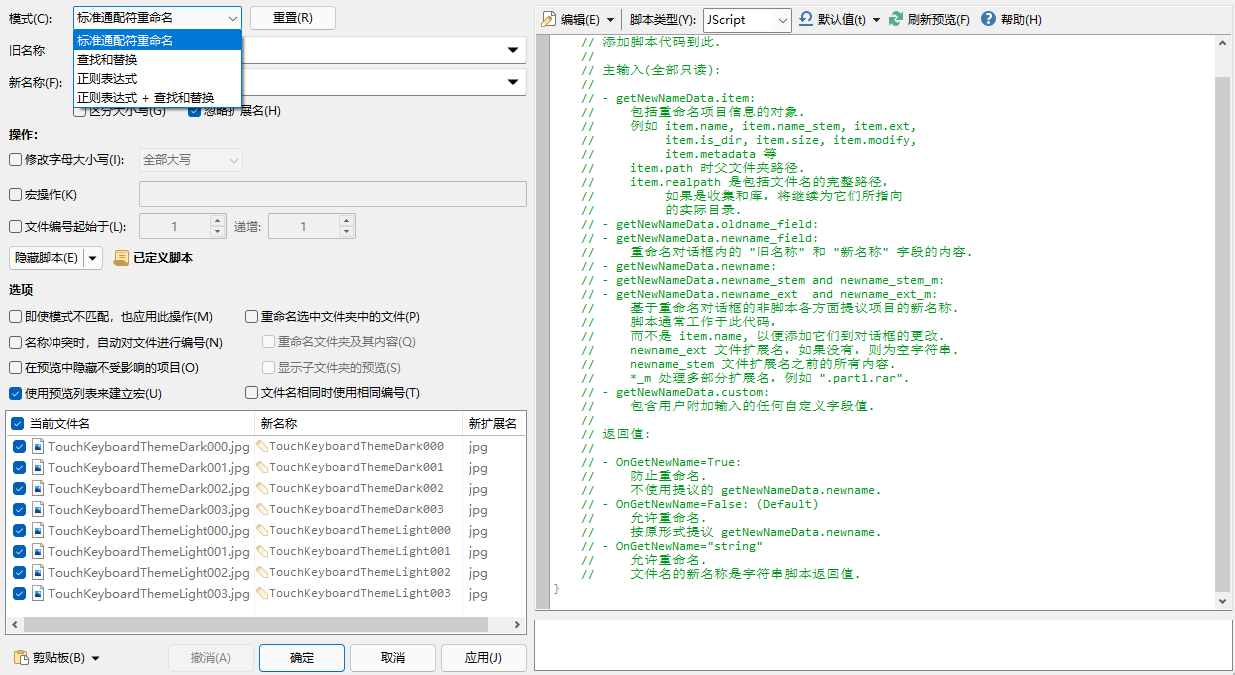
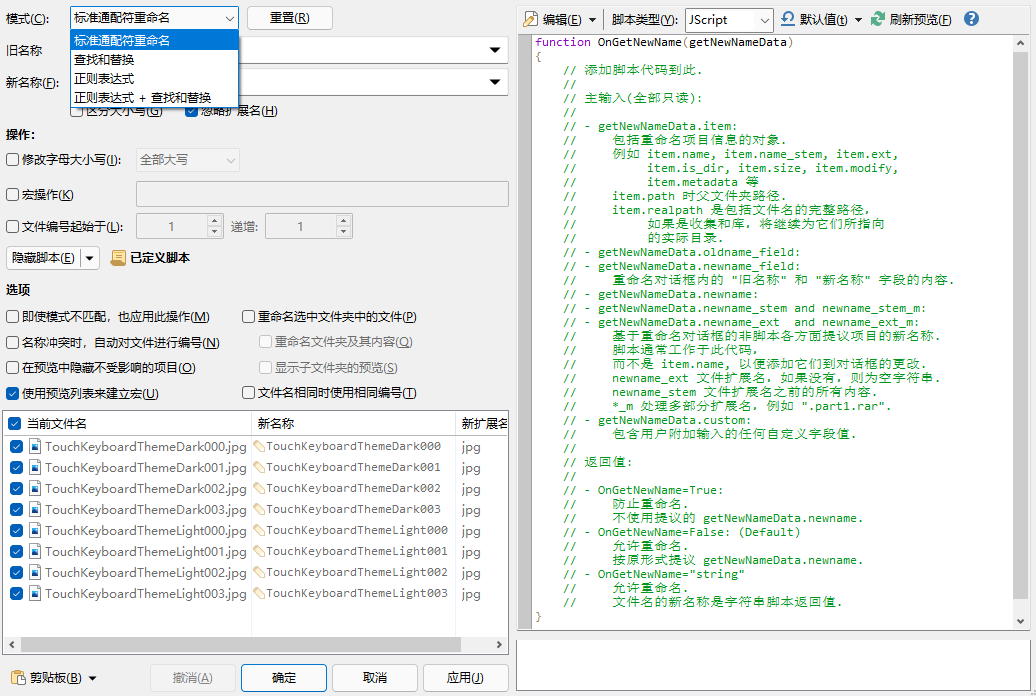
操作：重命名：高级重命名：更新截图

Changed region(s): [[0.0, 0.0, 1.0, 1.0]]

diff --git a/操作/重命名.md b/操作/重命名.md
@@ -2,6 +2,12 @@
 ## 高级重命名
 高级重命名可以实现复杂的批量重命名。支持通配符、宏（编辑录制）和正则表达式，能够插入序号和元数据字段，也可以使用 JS/VBS 脚本进行自定义处理。配置好的重命名规则可以保存为预设（上图左侧），便于之后再次使用。
 
+<!--
+1 | 2
+--- | ---
+![](images/重命名/高级重命名-v13.png) | ![](images/重命名/高级重命名2-v13.png)
+-->
+
 ![](images/重命名/高级重命名-v13.png)
 
 ![](images/重命名/高级重命名2-v13.png)
